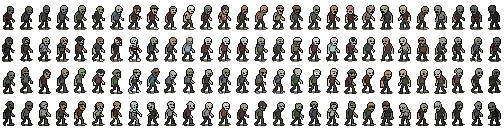
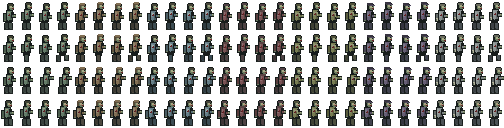
Animate Dark Pixel infected with a Godot-baked atlas

diff --git a/tests/render-test.js b/tests/render-test.js
@@ -9,6 +9,7 @@ const files = [...html.matchAll(/<script src="([a-z-]+)\.js/g)].map(m => m[1]).f
 const pascal = f => f.split("-").map(w => w[0].toUpperCase() + w.slice(1)).join("");
 const counts = {};
 let heldWeapon = null;
+const infectedFrames = [];
 let beamOpacity = 1;
 const mk = () => new Proxy({globalAlpha:1, savedAlpha:[]}, {
   get(t, k) { if (k in t) return t[k]; if (k === "canvas") return {width: 1280, height: 720}; if (k === "measureText") return () => ({width: 10});
@@ -32,13 +33,17 @@ const mk = () => new Proxy({globalAlpha:1, savedAlpha:[]}, {
         counts.furnitureBlit = (counts.furnitureBlit || 0) + 1;
       }
       if (k === "drawImage" && args.length === 3 && args[0]?.width === 36 && args[0]?.height === 36) heldWeapon = args[0];
+      if (k === "drawImage" && args.length === 9 && args[3] === 18 && args[4] === 32) {
+        infectedFrames.push(args.slice(1, 7));
+      }
       if (k === "drawImage" && args.length === 9 && args[3] === 24 && args[4] === 32) counts.actorBlit = (counts.actorBlit || 0) + 1;
     }; },
   set(t, k, v) { t[k] = v; return true; }});
 const mkCanvas = () => ({width: 0, height: 0, getContext: () => mk(), getBoundingClientRect: () => ({left: 0, top: 0, width: 1280, height: 720}), style: {}, clientWidth: 160});
 const worldCanvas = mkCanvas();
 const context = {console, Math: Object.assign(Object.create(Math), {random: (() => { let s = 3; return () => (s = s * 16807 % 2147483647) / 2147483647; })()}), Date, JSON, structuredClone, devicePixelRatio: 1,
-  ResizeObserver: class { observe() {} }, document: {getElementById: id => id === "world" ? worldCanvas : mkCanvas(), createElement: () => mkCanvas()}};
+  Image: class { naturalWidth = 504; naturalHeight = 128; },
+  ResizeObserver: class { observe() {} }, document: {getElementById: id => id === "world" ? worldCanvas : id === "micro-zombie-atlas" ? {href:"micro-zombies.png"} : mkCanvas(), createElement: () => mkCanvas()}};
 context.globalThis = context.window = context; vm.createContext(context);
 let source = ""; for (const f of files) source += fs.readFileSync(path.join(dir, f + ".js"), "utf8").replace(/^"use strict";/, "") + `\n;globalThis.${pascal(f)}=${pascal(f)};\n`;
 vm.runInContext(source, context);
@@ -102,6 +107,35 @@ check("minimapa: repetições não redesenham os tiles", (m2.fillRect || 0) <= 2
   e = null; try { View.render(d, 0, 1 / 60); } catch (x) { e = x.message; } check("dark pixel: cadáver com poça de sangue desenha sem erros", e === null, e ?? "");
   d.look = "fast"; e = null; try { View.render(d, 0, 1 / 60); View.minimap({width: 160, height: 160, getContext: () => mk(), clientWidth: 160}, d); } catch (x) { e = x.message; }
   check("dark pixel: voltar a Fast/Classic e desenhar o minimapa funciona (contexto restaurado)", e === null, e ?? ""); }
+{
+  const d = Sim.createControl("survival", "carer", "shelter");
+  const z = d.world.enemies[0];
+  Object.assign(z, {x:d.player.x, y:d.player.y, headingX:1, headingY:0,
+    dormant:false, moving:false, phase:4, flash:0, windup:0, swing:0});
+  d.world.enemies = [z];
+  d.mode = "menu";
+  d.look = "dark";
+  View.prepare(d.world);
+  const pose = () => {
+    infectedFrames.length = 0;
+    View.render(d, 0, 1 / 60);
+    return infectedFrames[0];
+  };
+  const idle = pose();
+  z.moving = true;
+  const walk = pose();
+  z.x += .22;
+  const step = pose();
+  z.windup = .1;
+  const attack = pose();
+  z.flash = .2;
+  z.headingX = -1;
+  const hit = pose();
+  check("dark pixel: infectado anima e espelha a mesma variante",
+    idle?.[1] === 0 && walk?.[1] === 32 && step?.[0] === walk[0] + 18 &&
+    attack?.[1] === 64 && hit?.[1] === 96 && hit[0] === 486 - idle[0] &&
+    idle[5] === walk[5] && step[5] === attack[5] && attack[5] === hit[5]);
+}
 {
   const interior = Sim.createControl("survival", "carer", "shelter"), world = interior.world;
   const house = world.buildings.find(b => b.compact);

diff --git a/game/view.js b/game/view.js
@@ -1275,9 +1275,9 @@ const View = (() => {
   const zombieAtlasLink = document.getElementById("micro-zombie-atlas");
   let zombieAtlas, mirroredZombieAtlas;
 
-  function drawZombieSprite(zombie, x, y, scale, facesLeft, lift) {
+  function drawZombieSprite(zombie, x, y, scale, facesLeft, stride, clock) {
     if (!zombieAtlasLink?.href || typeof Image !== "function") return false;
-    // Four rows of 28 complete 18×32 cells, all with the manifest's (9, 30) foot pivot.
+    // Idle, walk, attack and hit rows. Each of the seven outfits has four frames.
     const columns = 28, rows = 4, width = 18, height = 32;
     if (!zombieAtlas) {
       zombieAtlas = new Image();
@@ -1297,16 +1297,28 @@ const View = (() => {
       }
       atlas = mirroredZombieAtlas;
     }
-    // Phase is selected at spawn and already stored in saves, so appearance does not flicker.
-    const variant = clamp(Math.floor((Number.isFinite(zombie.phase) ? zombie.phase : 0) * 14), 0, columns * rows - 1);
-    const column = variant % columns, row = Math.floor(variant / columns);
+    // Spawn phase is persisted in saves and keeps each infected's outfit stable.
+    const phase = Number.isFinite(zombie.phase) ? zombie.phase : 0;
+    const outfit = clamp(Math.floor(phase * 7 / 8), 0, 6);
+    let row = 0, frame = Math.floor(Math.max(0, clock + phase) * 4) % 4;
+    if (zombie.flash > 0) {
+      row = 3;
+      frame = zombie.flash > .18 ? 0 : zombie.flash > .10 ? 1 : zombie.flash > .04 ? 2 : 3;
+    } else if (zombie.windup > 0 || zombie.swing > 0) {
+      row = 2;
+      frame = zombie.windup > .16 ? 0 : zombie.windup > 0 ? 1 : zombie.swing > .08 ? 3 : 2;
+    } else if (zombie.moving) {
+      row = 1;
+      frame = Math.floor(stride * 4);
+    }
+    const column = outfit * 4 + frame;
     ctx.drawImage(atlas, (facesLeft ? columns - 1 - column : column) * width, row * height, width, height,
-      Math.round(x - 9 * scale), Math.round(y - (30 + Math.abs(lift)) * scale),
+      Math.round(x - 9 * scale), Math.round(y - 30 * scale),
       Math.round(width * scale), Math.round(height * scale));
     return true;
   }
 
-  function microActor(a, isPlayer, state, alive, x, y, scale) {
+  function microActor(a, isPlayer, state, alive, x, y, scale, clock = 0) {
     const moving = alive && a.moving;
     const running = moving && (isPlayer ? state.running : a.kind === "runner" && a.alert > 0);
     const stride = strides.get(a) ?? {x:a.x, y:a.y, phase:(a.phase || 0) % 1};
@@ -1322,7 +1334,7 @@ const View = (() => {
     const swing = isPlayer && a.swing > 0 ? state.swingVisual : null;
     const dx = swing?.dx ?? a.headingX ?? (a.face < 0 ? -1 : 1), dy = swing?.dy ?? a.headingY ?? 0;
     const direction = Number(dx < dy) + 2 * Number(dx + dy < 0);
-    const imported = alive && a.stats && !isPlayer && drawZombieSprite(a, x, y, scale, dx < dy, lift);
+    const imported = alive && a.stats && !isPlayer && drawZombieSprite(a, x, y, scale, dx < dy, stride.phase, clock);
     if (!imported) {
       const shirt = isPlayer ? (a.gear.body === "raincoat" ? "#9b8652" : "#748d7a") :
         Data.outfits[a.outfit]?.shirt || a.stats?.color || "#73705f";
@@ -1375,7 +1387,7 @@ const View = (() => {
       ctx.restore();
     }
     if (darkLook) {
-      microActor(a, isPlayer, state, alive, x, y, scale);
+      microActor(a, isPlayer, state, alive, x, y, scale, clock);
       if (alive && a.origin === "cinema-winner") {
         const hand = x+(a.face || 1)*9, bob = a.moving ? Math.round(Math.sin(clock*5)*2) : 0;
         ctx.fillStyle = "#d5ad52";

diff --git a/docs/CODE_INDEX.md b/docs/CODE_INDEX.md
@@ -46,8 +46,8 @@ search:35 | pathTo:49 | start:55 | range:111 | finish:117 | objective:124 | read
 ## game/sim.js (3077 lines)
 weapon:19 | unequipWeapon:26 | wornItem:35 | addXp:45 | add:68 | remove:81 | notify:91 | stockGardenSeeds:97 | prepareSupplies:109 | addUtilities:128 | stockFieldGear:146 | placeStartingBat:174 | stockSkillBooks:186 | create:198 | createControl:274 | difficultyOptions:326 | setDifficulty:335 | dangerRating:354 | recordPlaytest:362 | createRecommended:366 | pinnedGoal:383 | nearby:392 | containers:396 | unreadClueAt:412 | nearbyClues:419 | readClue:424 | isSupplyCache:430 | nearbySupplyCache:435 | collectSupplyCache:441 | sources:453 | available:457 | consume:461 | collect:475 | collectAll:498 | drop:517 | stash:546 | use:556 | beltItem:636 | setBelt:644 | useBelt:651 | activeLight:660 | replaceBattery:665 | toggleLight:674 | recipeProblem:691 | craft:707 | place:727 | vehicle:765 | enterVehicle:769 | exitVehicle:790 | refuel:818 | vehicleRepairProblem:832 | repairVehicle:840 | brake:850 | updateVehicle:857 | destination:936 | markDestination:949 | markStation:969 | travelProblem:976 | arrivalPosition:986 | travel:997 | exploredTile:1033 | saveMapPin:1038 | markPin:1057 | removePin:1065 | noise:1073 | hear:1089 | hearZombie:1097 | encounterSlots:1112 | newInfected:1118 | freeEncounterSpot:1124 | wakeNest:1130 | touchFungus:1149 | noticeCrib:1153 | inspectCrib:1163 | warnHorde:1169 | resumeEncounterWarning:1176 | waveSpots:1180 | updateHordes:1190 | armWatch:1246 | updateAtmosphere:1256 | listenAtDoor:1317 | sceneProblem:1337 | revealLedgerCache:1342 | resolveScene:1348 | dispatchProblem:1374 | sendDispatch:1383 | readDispatchReport:1390 | settleDispatch:1398 | openingOccupied:1430 | breachProblem:1444 | breach:1453 | door:1483 | barricade:1510 | unboard:1526 | removeBarrier:1537 | minutesToRain:1548 | sight:1571 | canSee:1578 | drainLight:1587 | useTap:1596 | useGenerator:1616 | updateUtilities:1636 | fireBatch:1668 | startFireBatch:1675 | collectFireBatch:1690 | wildProblem:1724 | useWild:1744 | sow:1774 | waterGarden:1784 | gardenYield:1792 | harvestGarden:1798 | growGarden:1811 | updateOutdoor:1823 | catchUpArea:1834 | evaAtShelter:1854 | toggleGardenHelp:1859 | tendShelterGarden:1868 | contextual:1887 | recruit:1947 | threats:1957 | damageFactor:1961 | aimChance:1968 | inAttackRange:1973 | closestInReach:1977 | attackTarget:1988 | touchAttackTarget:1994 | weaponProblem:2009 | endPursuit:2015 | endWindup:2021 | faceTowards:2026 | defeat:2031 | attack:2041 | shove:2086 | hurt:2112 | move:2160 | follow:2197 | walkTo:2223 | target:2235 | approach:2242 | updatePlayer:2258 | canTargetEva:2333 | updateEnemies:2337 | updateNpc:2453 | explore:2476 | updateExposure:2486 | updateNeeds:2498 | tick:2533 | updateDoorLure:2584 | breakLeg:2611 | healFracture:2619 | updateSickness:2628 | freeSpot:2651 | unstick:2664 | startSleep:2681 | fastSleep:2691 | sleep:2706 | moodles:2713 | snapshotPlayer:2737 | snapshotZone:2741 | snapshotRun:2749 | zoneShape:2765 | migrate:2780 | restore:2786
 
-## game/view.js (2332 lines)
-resize:22 | updateCamera:33 | poly:56 | line:65 | shadow:75 | box:83 | tint:91 | prepare:97 | bloodPool:162 | microDetail:167 | tileArt:192 | tendril:258 | tile:272 | glowSprite:290 | glow:307 | wall:317 | paintWall:344 | gardenTree:377 | paintFurniture:413 | drawFurniture:532 | prop:551 | roof:1046 | roofArt:1068 | roofCoversPlayer:1102 | marker:1110 | actorFrame:1135 | drawHeldWeapon:1230 | weaponIcon:1259 | drawZombieSprite:1278 | microActor:1309 | equipmentPortrait:1350 | actor:1363 | beamReach:1517 | flashlightBeam:1527 | warmBeamSprite:1547 | warmFlashlight:1570 | windowGlow:1596 | weatherEffects:1620 | drawDestination:1656 | chunkSignature:1683 | buildChunk:1691 | groundLayer:1719 | dimAround:1736 | afterlifePixels:1774 | afterlifePortrait:1801 | renderAfterlife:1813 | render:1961 | locate:2224 | mapFit:2244 | mapPoint:2249 | minimapLayer:2257 | minimap:2276
+## game/view.js (2344 lines)
+resize:22 | updateCamera:33 | poly:56 | line:65 | shadow:75 | box:83 | tint:91 | prepare:97 | bloodPool:162 | microDetail:167 | tileArt:192 | tendril:258 | tile:272 | glowSprite:290 | glow:307 | wall:317 | paintWall:344 | gardenTree:377 | paintFurniture:413 | drawFurniture:532 | prop:551 | roof:1046 | roofArt:1068 | roofCoversPlayer:1102 | marker:1110 | actorFrame:1135 | drawHeldWeapon:1230 | weaponIcon:1259 | drawZombieSprite:1278 | microActor:1321 | equipmentPortrait:1362 | actor:1375 | beamReach:1529 | flashlightBeam:1539 | warmBeamSprite:1559 | warmFlashlight:1582 | windowGlow:1608 | weatherEffects:1632 | drawDestination:1668 | chunkSignature:1695 | buildChunk:1703 | groundLayer:1731 | dimAround:1748 | afterlifePixels:1786 | afterlifePortrait:1813 | renderAfterlife:1825 | render:1973 | locate:2236 | mapFit:2256 | mapPoint:2261 | minimapLayer:2269 | minimap:2288
 
 ## game/game.js (2453 lines)
 read:63 | write:67 | backUp:71 | save:80 | clearStick:101 | resetInput:108 | updateDisplayMode:121 | toggleFullscreen:133 | activate:158 | setNavigation:179 | opening:186 | startLesson:200 | endLesson:212 | updateLesson:225 | startAfterlife:249 | deathSummary:259 | skipAfterlife:270 | endAfterlife:276 | afterlifeAction:283 | start:287 | startRecommended:305 | showStartDetail:318 | savedAssists:331 | assistsOn:338 | difficultyPanel:343 | applyDifficulty:364 | rememberSetup:385 | worldRulesEditor:391 | applyWorldRules:409 | resumeSaved:425 | show:443 | close:457 | menu:470 | titleScreen:480 | wakeSound:498 | cue:511 | syncSound:523 | objectives:532 | objectiveHtml:542 | skillsHtml:546 | conditions:556 | nearbyObjects:571 | interactionLabel:585 | canTalk:596 | setHtml:602 | updateHud:608 | help:736 | landmarks:746 | map:756 | savePinForm:806 | itemIcon:817 | weaponCondition:822 | itemDescription:828 | matches:856 | inventoryItems:866 | nearbyItems:889 | updateInventoryLists:910 | bag:952 | useBelt:985 | updateBelt:992 | beltPanel:1014 | gear:1028 | editSurvivor:1081 | crafting:1090 | health:1111 | diary:1141 | dispatchStatus:1164 | fieldLedger:1179 | ledgerEntry:1218 | ledgerReport:1224 | ledgerPanel:1233 | playtestReport:1269 | copyPlaytest:1313 | knownStory:1326 | storyText:1331 | outbreakLog:1335 | storyEntry:1344 | supplyRun:1353 | gardenStatus:1381 | gardenProject:1390 | waterProject:1410 | utilities:1431 | releases:1450 | research:1457 | npcPanel:1465 | gardenPanel:1482 | stationPanel:1506 | objectPanel:1553 | interact:1664 | interactions:1673 | nearbyAction:1690 | strike:1719 | quickUse:1727 | pause:1734 | visualAtmosphere:1744 | atmospherePanel:1748 | applyAtmosphere:1758 | exportSave:1769 | refreshPanel:1776 | bagChanged:1784 | changeInventory:1794 | bindTap:2105 | updateStick:2178 | shoveOrBrake:2206 | frame:2328

diff --git a/docs/micro-pixel-slice/README.md b/docs/micro-pixel-slice/README.md
@@ -24,20 +24,20 @@ variants, and the fridge indicator follows its existing power state. These
 sprites are drawn at the existing prop anchors in the depth stack, so doors,
 collision, targeting and loot continue to use the same world objects.
 
-## Supplied infected art
+## Animated infected art
 
-`game/micro-zombies.png` is the unmodified complete atlas supplied in the
-Last CloneZ sprite pack. Four rows of 28 cells use the pack's 18×32 frame and
-(9, 30) feet pivot. Each infected keeps a variant based on its existing spawn
-phase. The renderer mirrors the pose for left-facing movement and adds a
-subtle stride bob. The pack supplies static poses, so full directional and
-combat animation frames remain open. The partial row and the large figures
-are excluded. The existing idle, hit and threat feedback and game rules
-continue to run with the new drawing.
+Dark Pixel uses an original transparent atlas at `game/micro-zombies.png`.
+Each row contains four 18×32 frames for each of seven outfits. The rows are
+idle, walk, attack and hit, with a shared (9, 30) foot pivot. The saved spawn
+phase selects the outfit, travel distance advances the walk cycle, and the
+existing combat timers select attack and hit poses. Left-facing sprites use
+the cached mirror of the atlas.
 
-The pack identifies the artwork as user-supplied and its licensing as
-unverified. Confirm that the atlas may be redistributed before publishing
-it to the public repository or Worker Preview.
+To rebuild from the Godot pixel-art source, run this from the repository root:
+
+```sh
+godot --headless --script scripts/bake-infected.gd -- "$PWD/game/micro-zombies.png"
+```
 
 ## Running and testing
 
